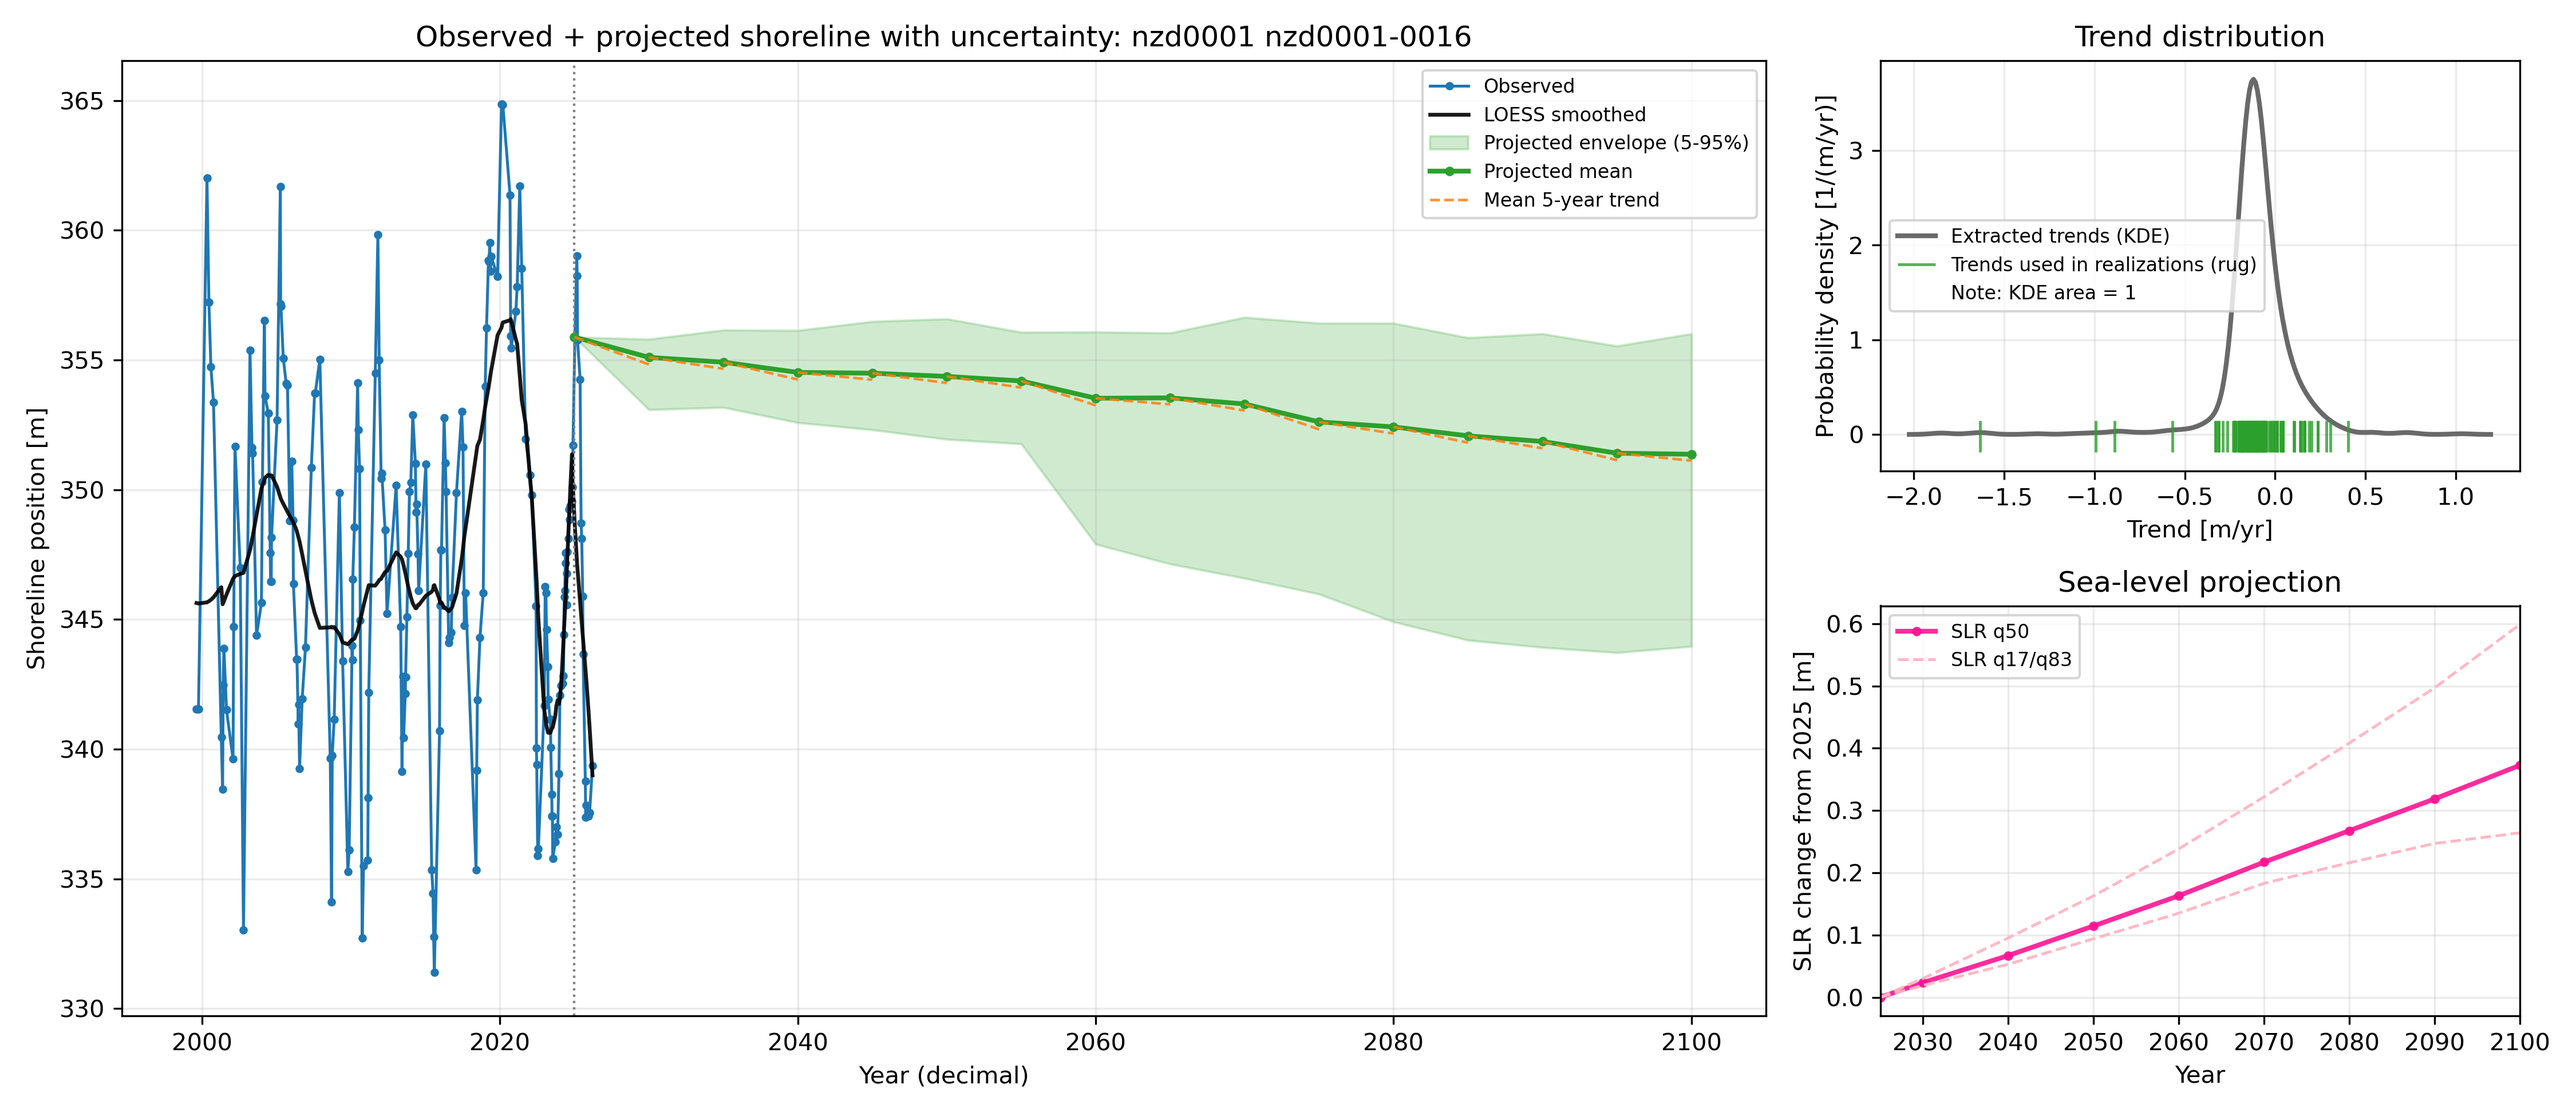
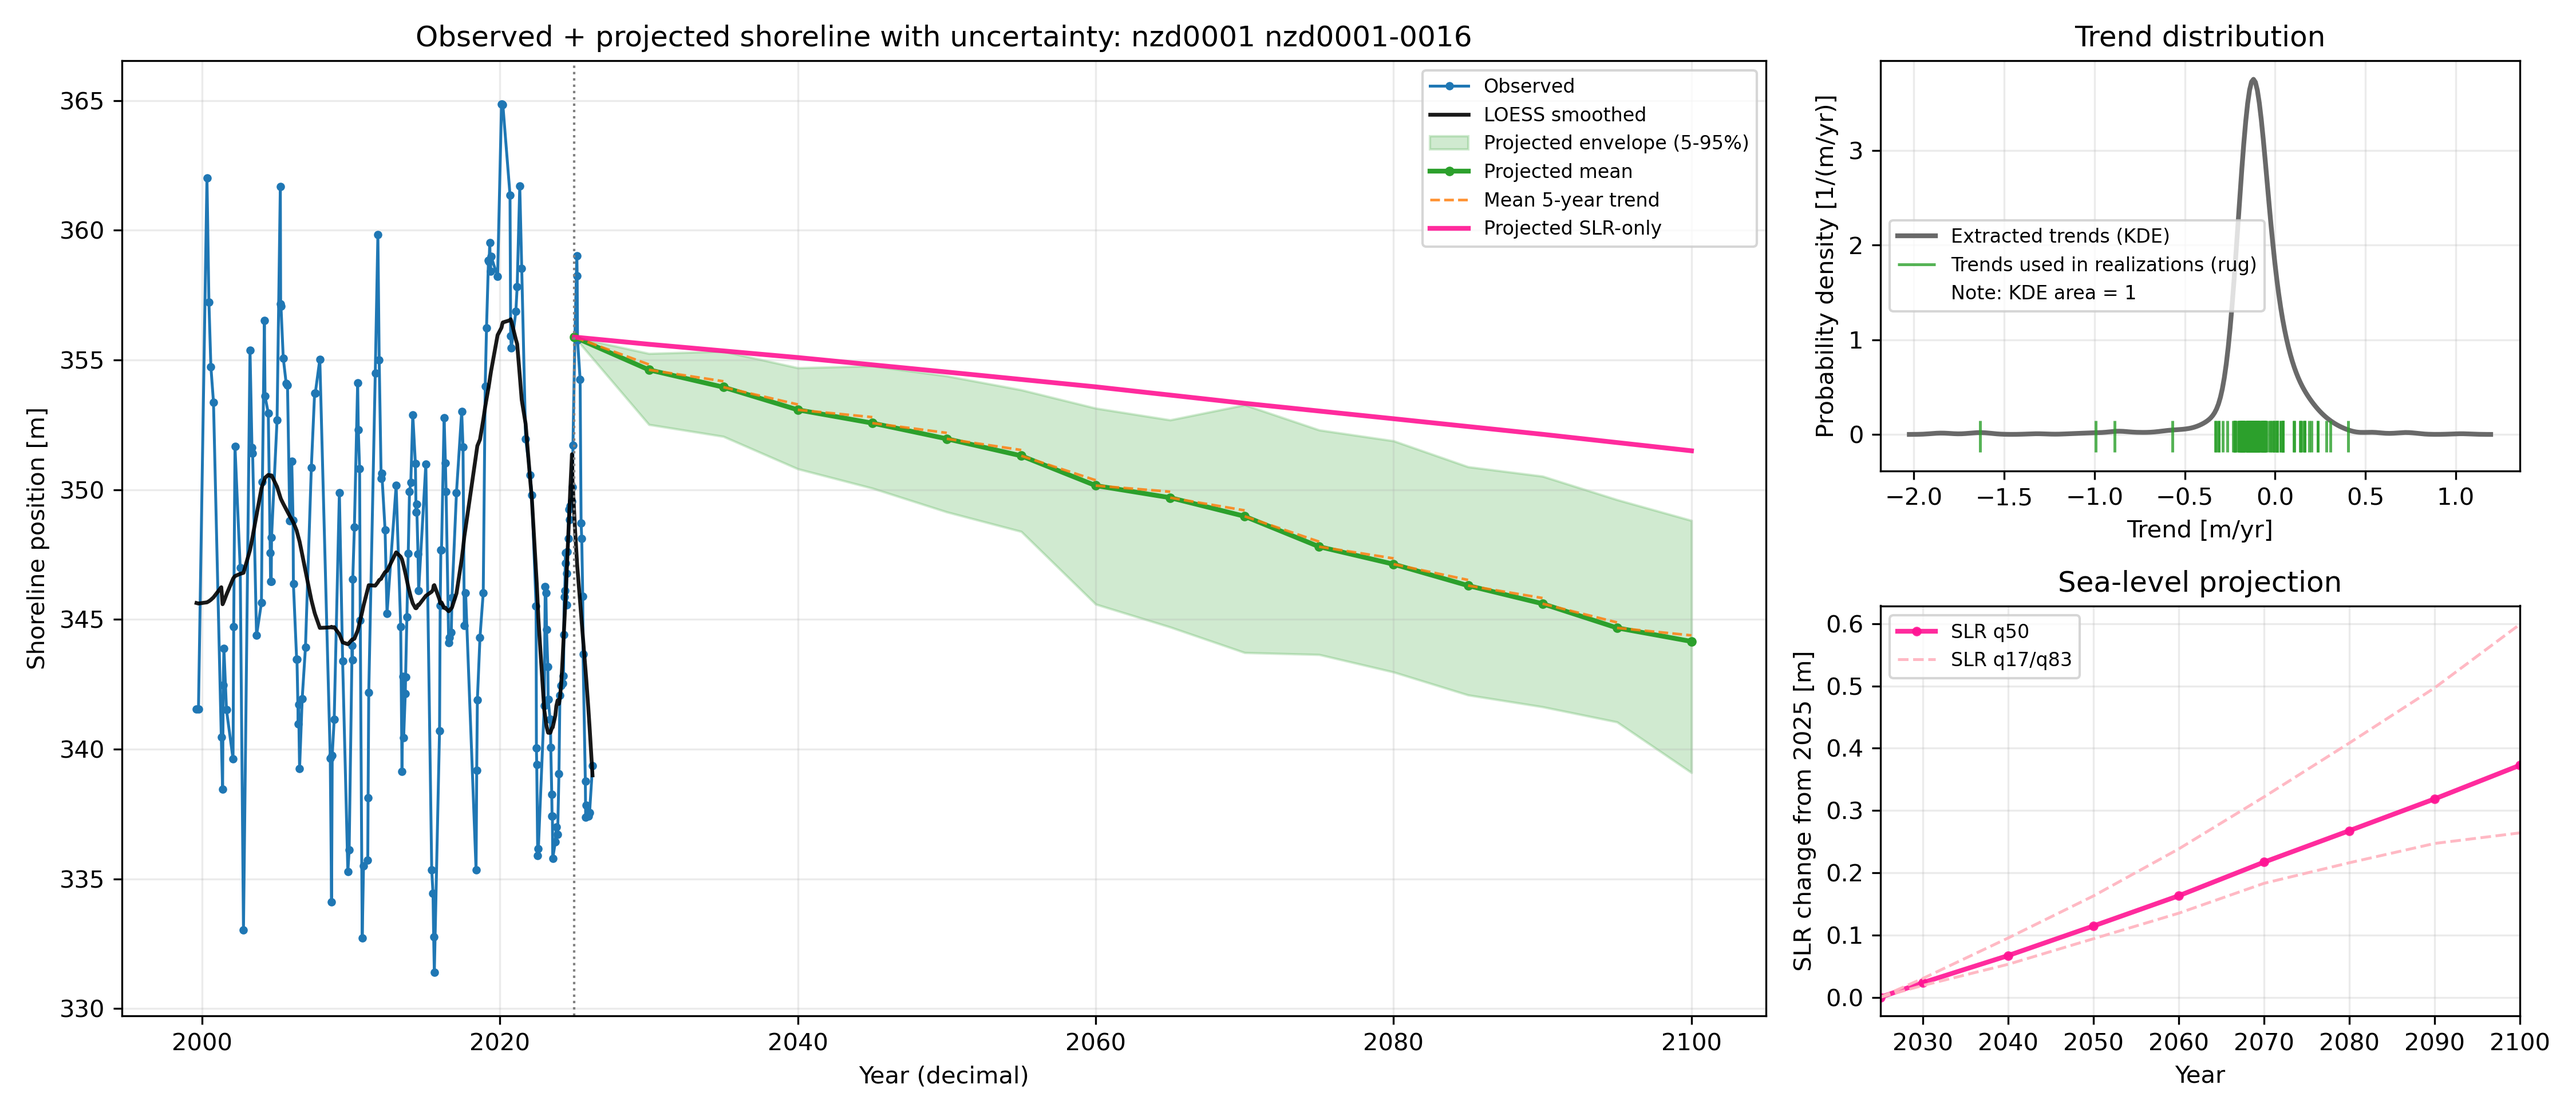
Fixed sign convention of SLR vs shoreline change

diff --git a/viz.py b/viz.py
@@ -22,6 +22,8 @@ def plot_observed_and_projected_single_run(
     t_loess=None,
     y_loess=None,
     trend_pool=None,
+    tan_beta=None,
+    c=1.0,
 ):
     """Plot observed shoreline and projected trajectories.
 
@@ -48,6 +50,10 @@ def plot_observed_and_projected_single_run(
     if trend_pool is not None:
         trend_pool = np.asarray(trend_pool, dtype=float).ravel()
         trend_pool = trend_pool[np.isfinite(trend_pool)]
+    if tan_beta is not None:
+        tan_beta = float(tan_beta)
+        if not np.isfinite(tan_beta) or tan_beta == 0.0:
+            tan_beta = None
 
     if t_obs.size == 0 or y_obs.size == 0:
         raise ValueError("Observed time series is empty.")
@@ -190,6 +196,18 @@ def plot_observed_and_projected_single_run(
         slr_q17_values = slr_q17_values[slr_order]
         slr_q50_values = slr_q50_values[slr_order]
         slr_q83_values = slr_q83_values[slr_order]
+
+        if tan_beta is not None:
+            slr_q50_interp = np.interp(proj_years, slr_years, slr_q50_values)
+            slr_only_shoreline = baseline_y - (float(c) / tan_beta) * slr_q50_interp
+            ax.plot(
+                proj_years,
+                slr_only_shoreline,
+                color="deeppink",
+                linewidth=2.0,
+                alpha=0.7,
+                label="Projected SLR-only",
+            )
 
         ax_slr.plot(
             slr_years,

diff --git a/trend_uncertainty.py b/trend_uncertainty.py
@@ -306,7 +306,7 @@ def mc_shoreline_change(
     # Vectorized Monte Carlo sampling for speed and reproducibility.
     sampled_tan_beta = rng.uniform(low=tan_beta * 0.8, high=tan_beta * 1.2, size=n)
 
-    bases = (c / sampled_tan_beta) * sampled_delta_s          # total SLR term (n,)
+    bases = -(c / sampled_tan_beta) * sampled_delta_s         # total SLR term (n,): SLR drives retreat (negative y)
     sampled_p = rng.uniform(low=p_low, high=p_high, size=n)
 
     # Split dt into 5-year segments; each gets its own independently sampled r.
@@ -910,6 +910,8 @@ for site_id in nzd_sites_trial:
             transect_id=transect_id,
             out_fp=preview_ts_plot_fp,
             trend_pool=boot_slopes,
+            tan_beta=tan_beta,
+            c=1.0,
         )
 
         print(site_id, transect_id)
